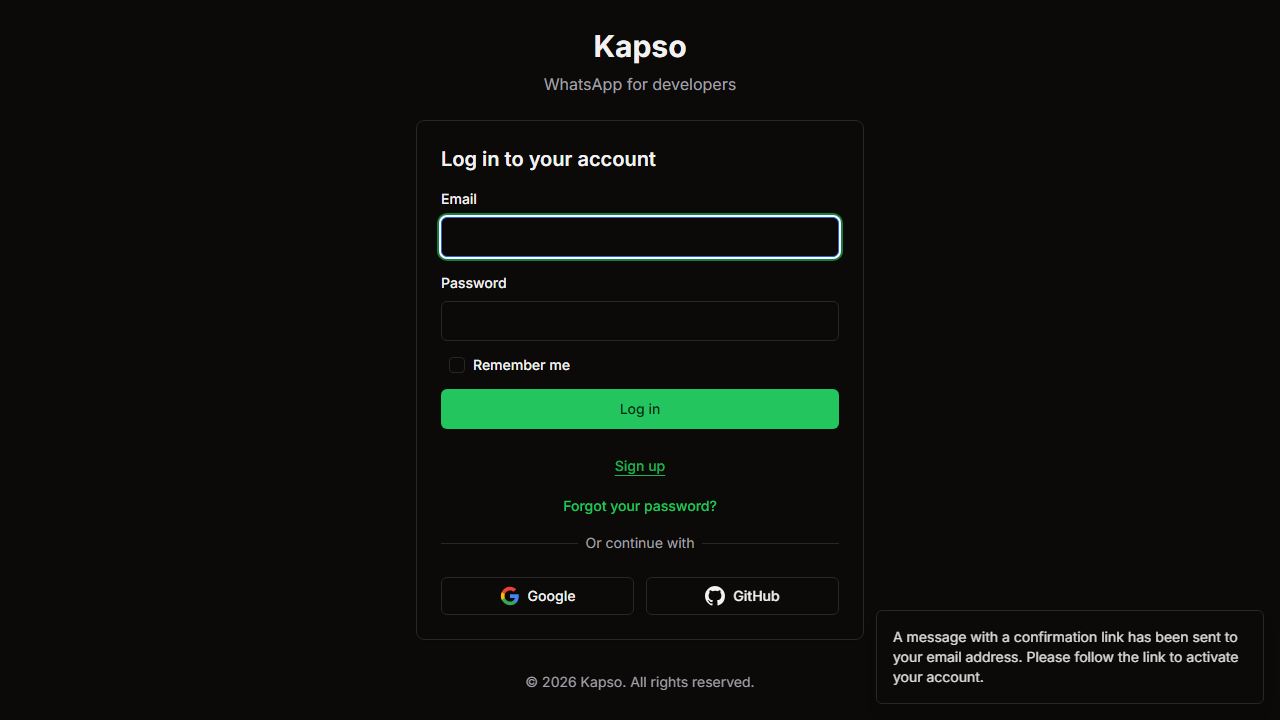
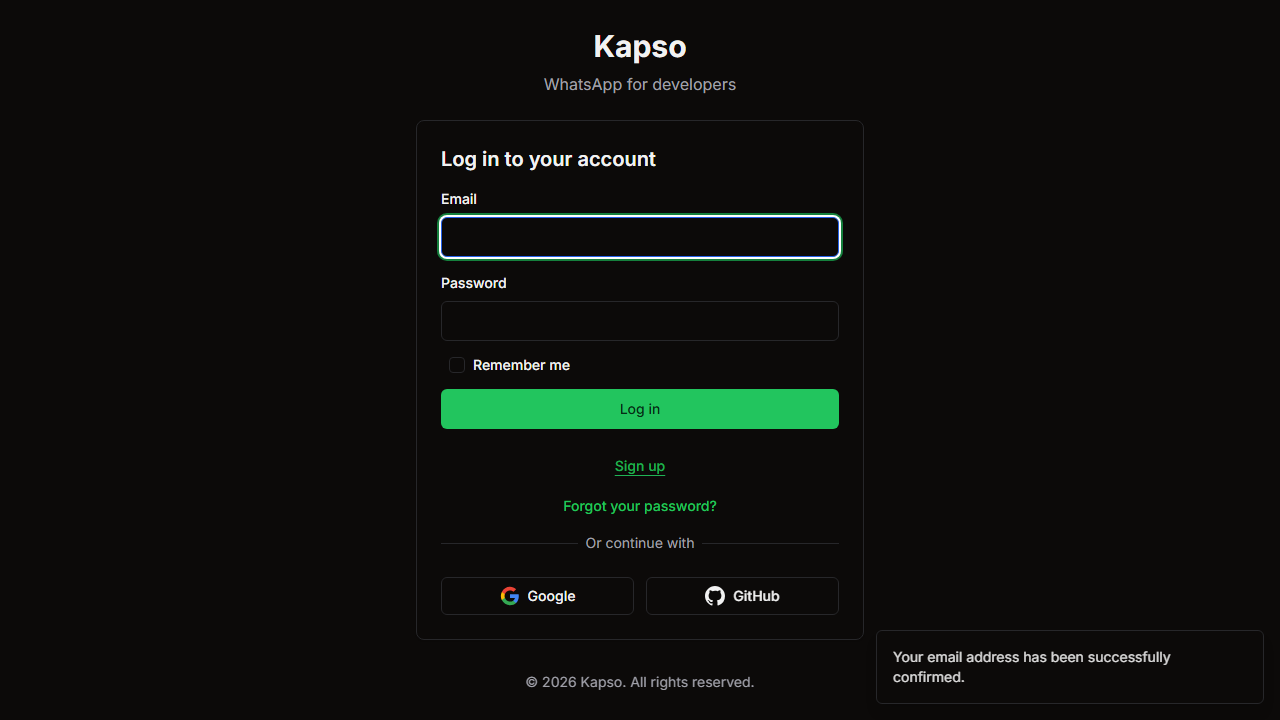
feat: improve Kapso login flow with better debugging

Changed region(s): [[0.6875, 0.8556, 0.9688, 0.9472]]

diff --git a/scripts/kapso-setup.js b/scripts/kapso-setup.js
@@ -176,27 +176,45 @@ async function run(phoneNumber) {
 
     // After confirmation, Kapso redirects to login page
     const afterConfirmUrl = page.url();
+    console.log(`[Playwright] After confirm URL: ${afterConfirmUrl}`);
+
     if (!afterConfirmUrl.includes('dashboard') && !afterConfirmUrl.includes('/app')) {
-      // Navigate to login explicitly
+      // Navigate to login page if not already there
       if (!afterConfirmUrl.includes('sign_in')) {
         await page.goto(`${KAPSO_URL}/users/sign_in`, { waitUntil: 'networkidle', timeout: 30000 });
       }
       await page.waitForTimeout(2000);
-      await page.screenshot({ path: 'kapso-step05-login-page.png' });
 
-      // Fill login form (use Kapso's own form, not Google OAuth)
-      const loginEmail = page.locator('input[type="email"], input[name*="email"]').first();
-      const loginPass = page.locator('input[type="password"]').first();
+      // Dump all form inputs for debugging
+      const inputs = await page.locator('input').evaluateAll(els => els.map(el => ({
+        type: el.type, name: el.name, id: el.id, placeholder: el.placeholder
+      })));
+      console.log('[Playwright] Form inputs:', JSON.stringify(inputs));
 
-      if (await loginEmail.isVisible({ timeout: 5000 }).catch(() => false)) {
-        await loginEmail.fill(mail.email);
-        await loginPass.fill(KAPSO_PASSWORD);
+      try {
+        // Fill email
+        await page.fill('input[type="email"]', mail.email);
+        console.log('[Playwright] Email filled');
 
-        // Click "Log in" button (not Google/GitHub)
-        const loginBtn = page.locator('button[type="submit"], input[type="submit"]').first();
-        await loginBtn.click();
-        await page.waitForLoadState('networkidle', { timeout: 15000 }).catch(() => {});
+        // Fill password
+        await page.fill('input[type="password"]', KAPSO_PASSWORD);
+        console.log('[Playwright] Password filled');
+
+        await page.waitForTimeout(500);
+        await page.screenshot({ path: 'kapso-step05-login-filled.png' });
+
+        // Click the Log in button
+        await page.click('button:has-text("Log in")');
+        console.log('[Playwright] Login button clicked');
+
+        // Wait for navigation away from sign_in
+        await page.waitForURL(url => !url.toString().includes('sign_in'), { timeout: 15000 }).catch(e => {
+          console.log(`[Playwright] Wait for URL change failed: ${e.message}`);
+        });
         await page.waitForTimeout(3000);
+      } catch (loginErr) {
+        console.error(`[Login] Error during fill/submit: ${loginErr.message}`);
+        await page.screenshot({ path: 'kapso-error-login-fill.png' });
       }
     }
 
@@ -206,7 +224,11 @@ async function run(phoneNumber) {
     // Check if we're actually logged in
     const loginUrl = page.url();
     if (loginUrl.includes('sign_in') || loginUrl.includes('google.com')) {
-      console.error('[Error] Login failed - still on login/OAuth page');
+      // Dump page for debug
+      const pageHtml = await page.content();
+      const errorMsg = pageHtml.match(/alert[^>]*>(.*?)<\/div/is);
+      if (errorMsg) console.log(`[Login Error] ${errorMsg[1].trim()}`);
+      console.error('[Error] Login failed - still on login page');
       await page.screenshot({ path: 'kapso-error-login.png' });
       throw new Error('Login failed');
     }
